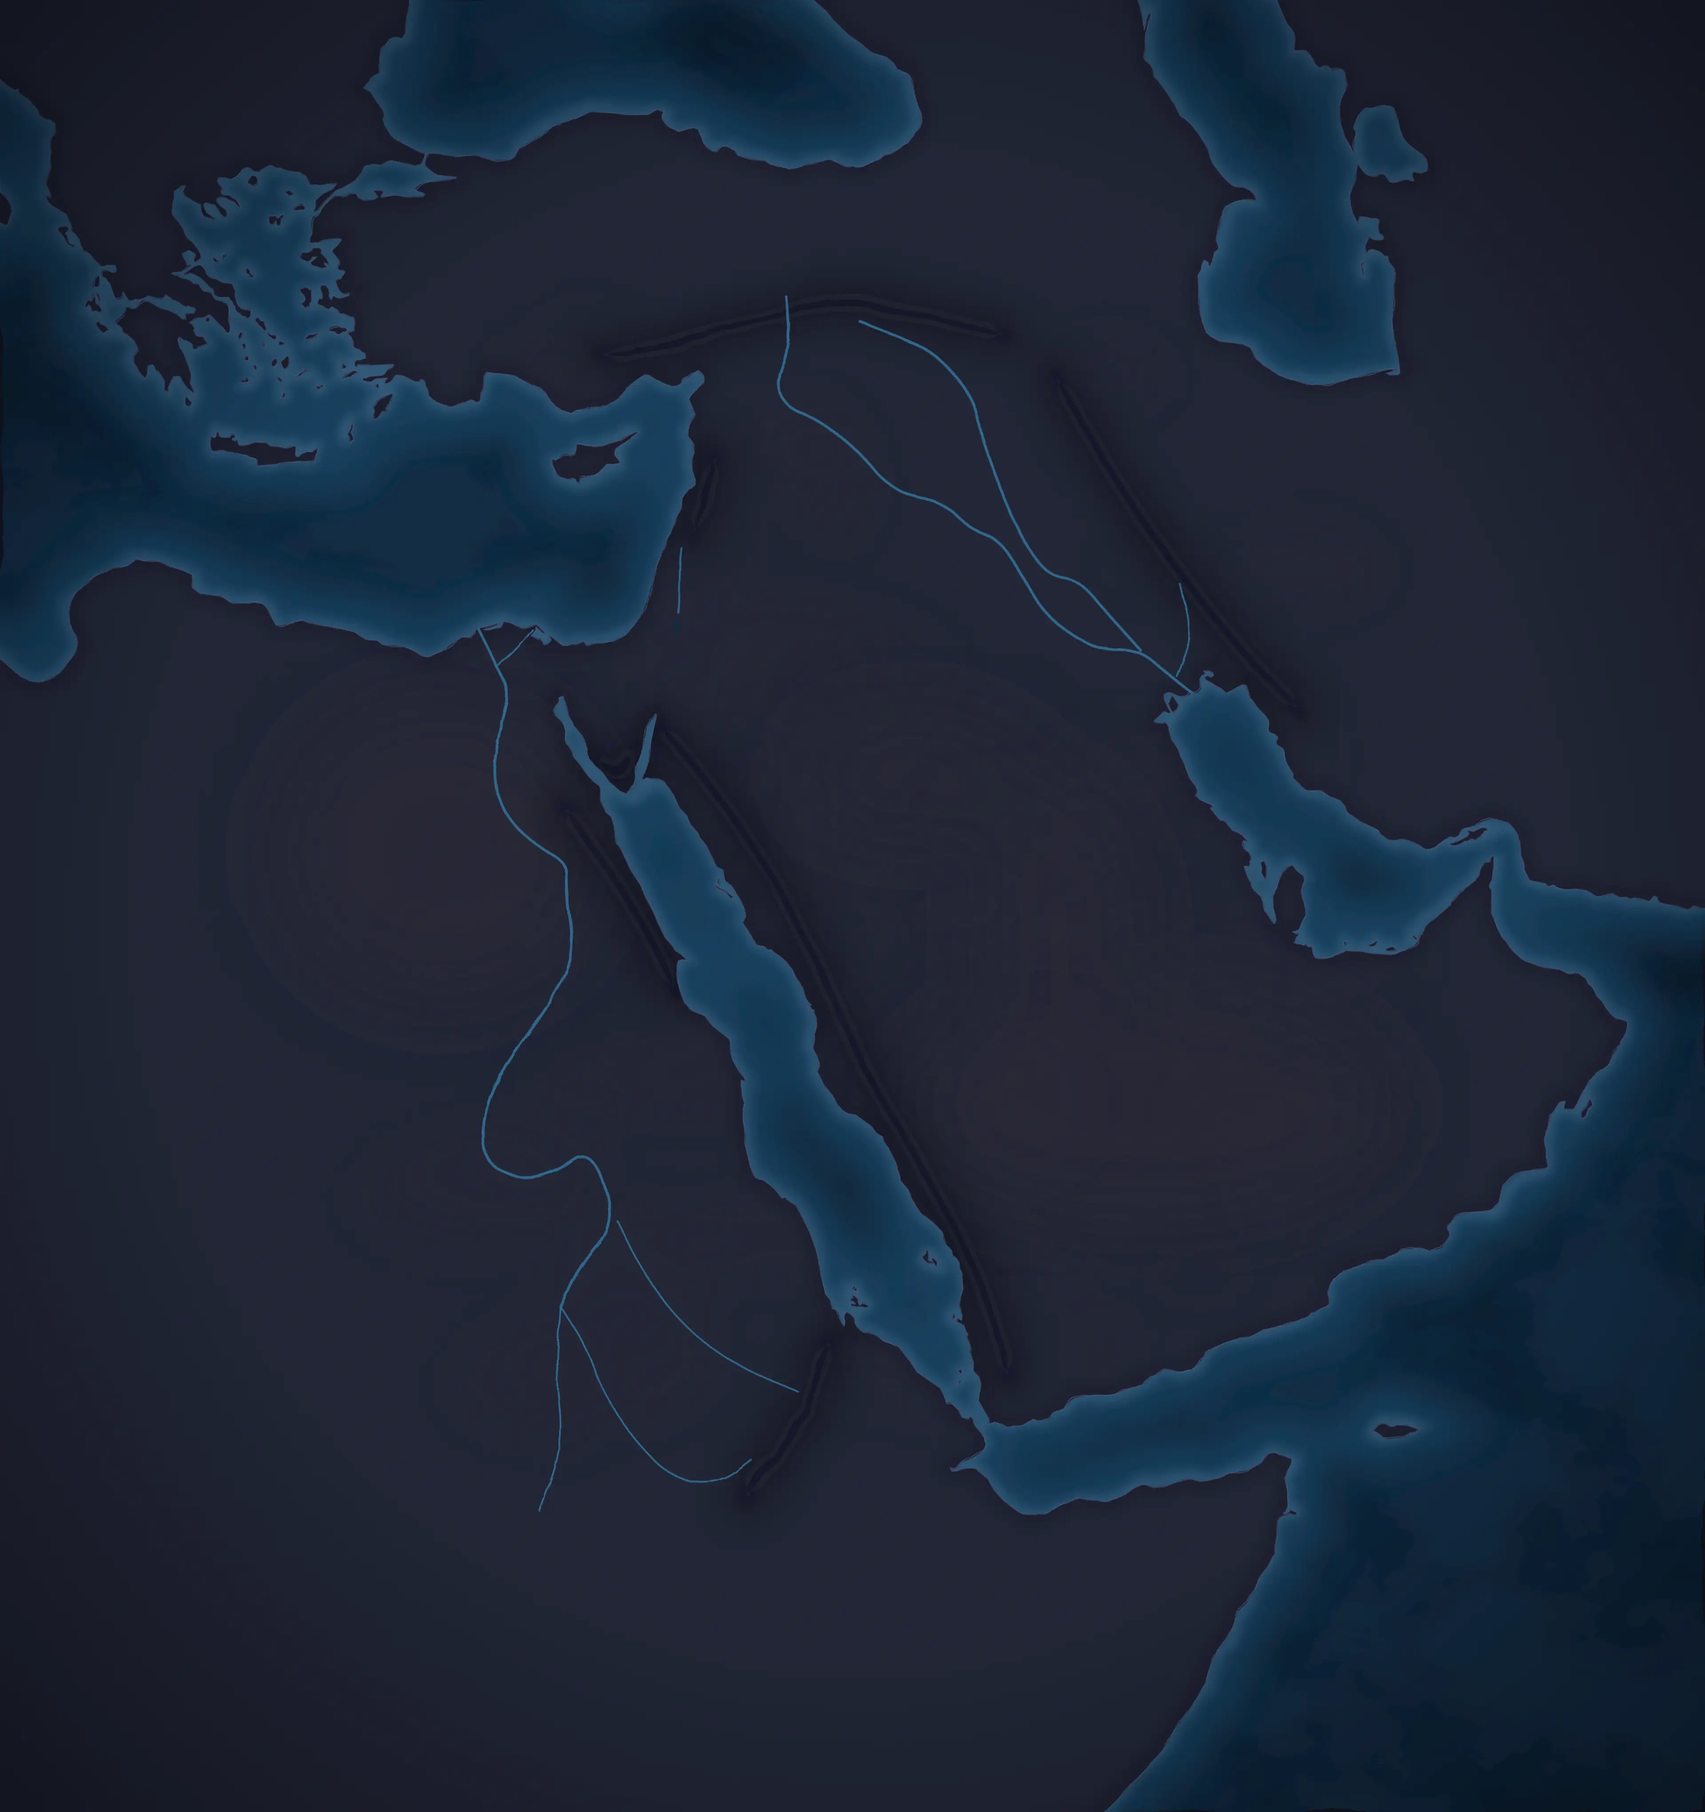
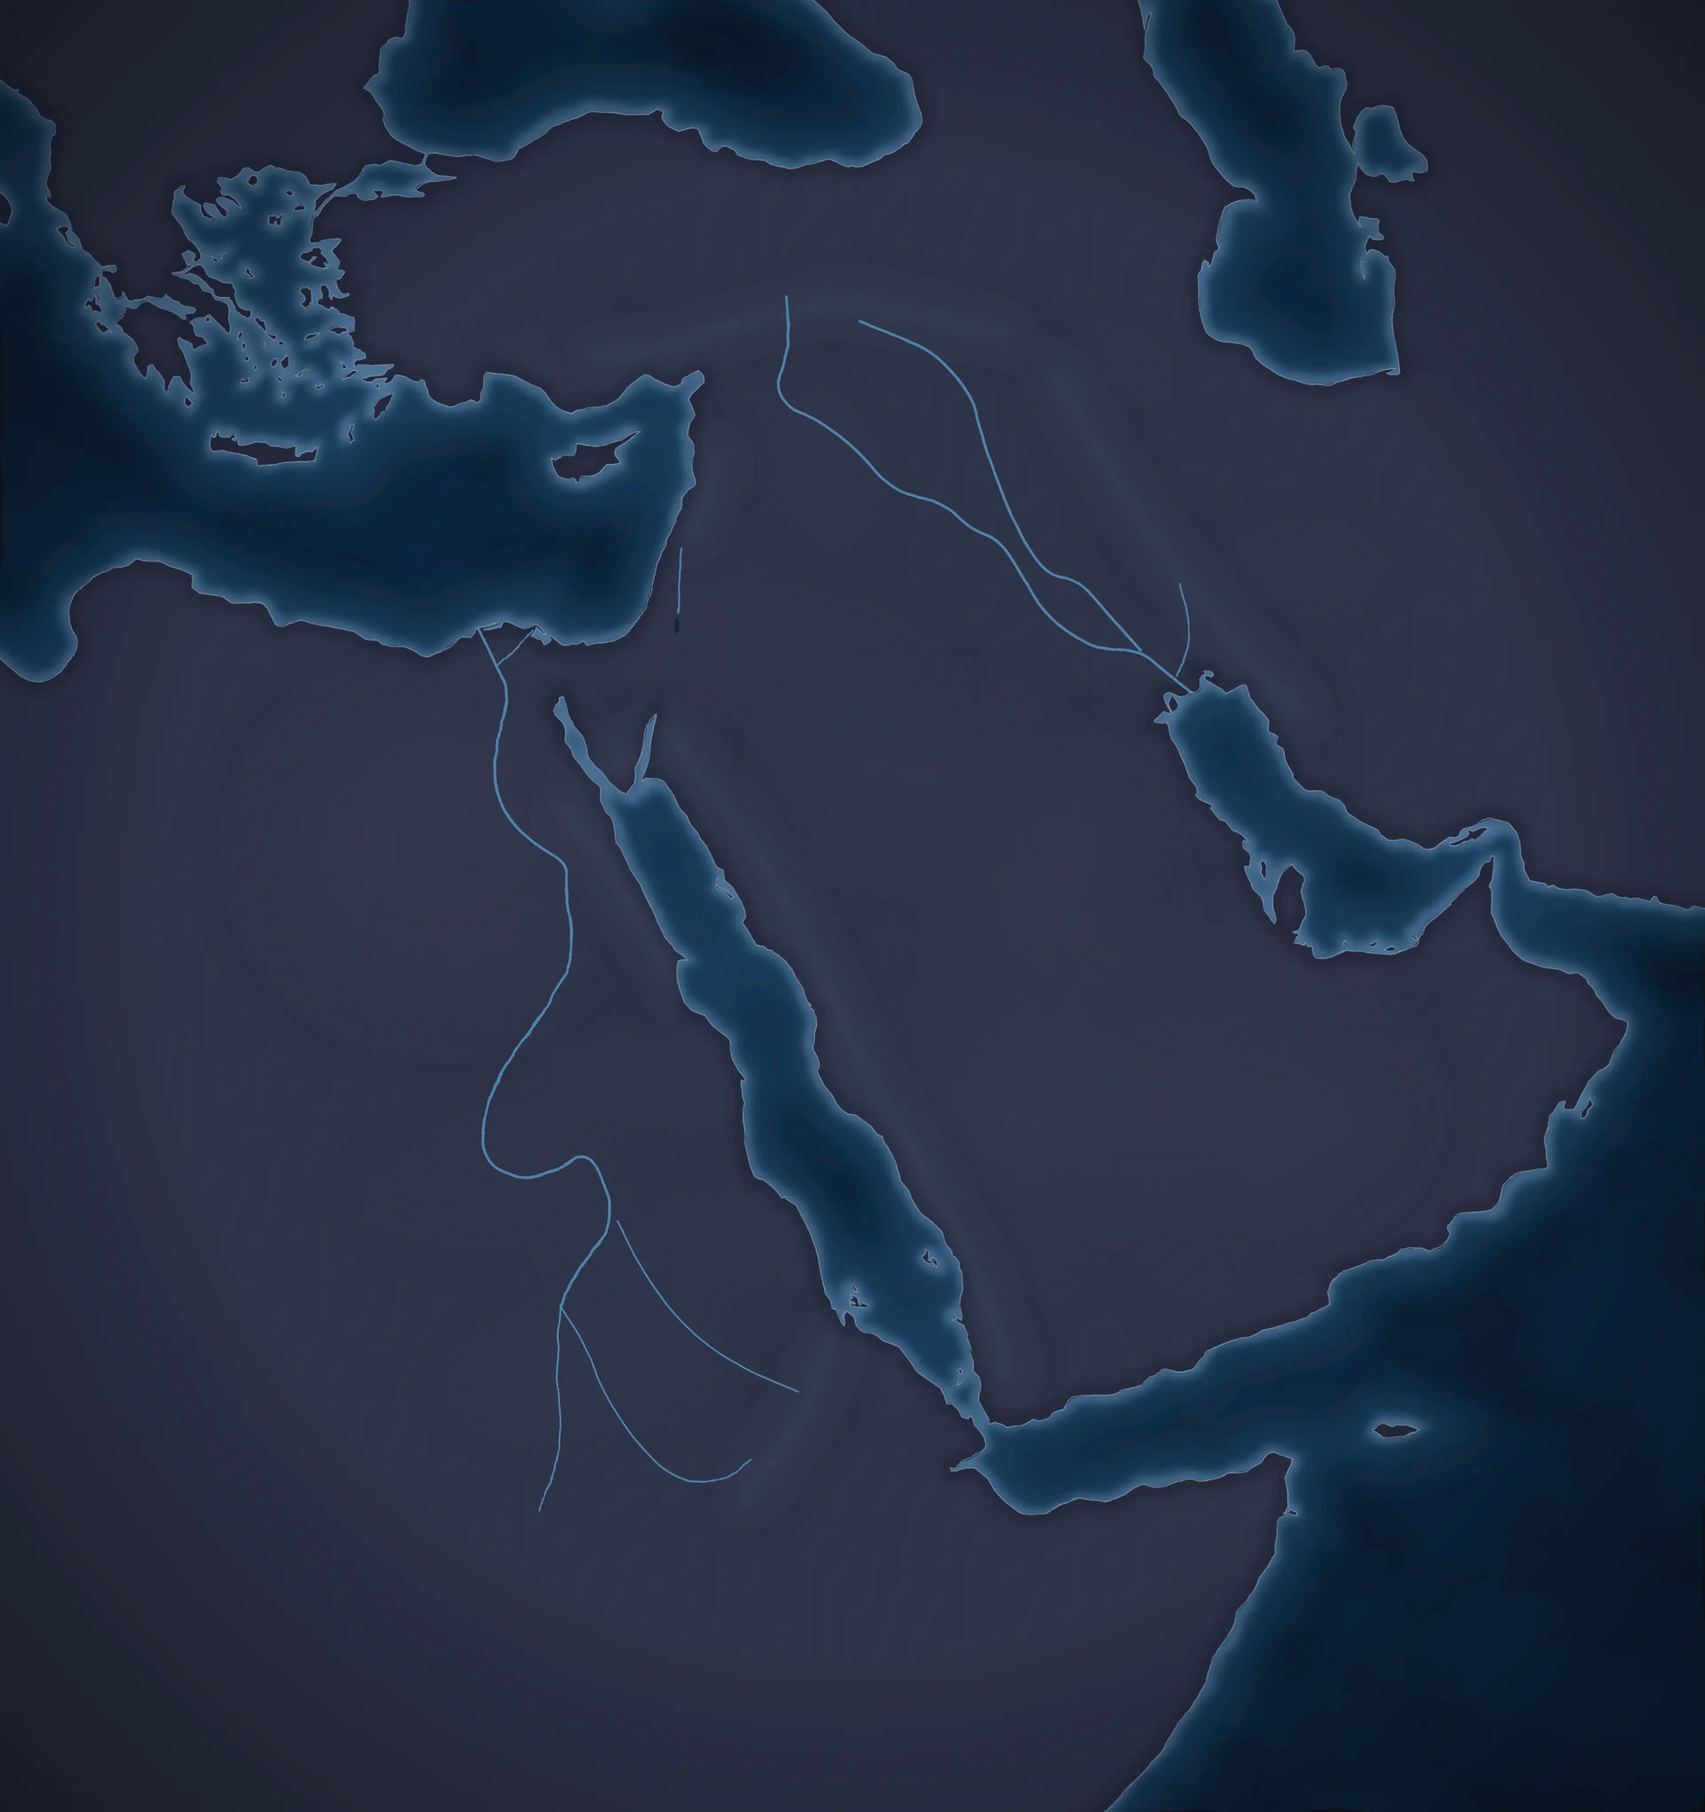
رحلة السيرة: إصلاح ألوان الخريطة الليلية
Claude-Session: https://claude.ai/code/session_017sij6fWkXrWpzPm7aXr9HP

diff --git a/abd-rahman/index.html b/abd-rahman/index.html
@@ -707,8 +707,8 @@ footer > span{display:flex;flex-direction:column;align-items:flex-start}
 @media (max-width:760px){.tk{width:12px}.tk i{width:7px;height:7px}.tl-track{--pad:6px}}
 /* خريطة مائية */
 :root{--sm-sea:#F1E6CB;--sm-land:#F1E6CB;--sm-lbl:#6B5232;--sm-reg:#8E714A;--sm-seaink:#2F6F8F;--sm-city:#3B2A16}
-@media (prefers-color-scheme:dark){:root:not([data-theme="light"]){--sm-sea:#151826;--sm-land:#1B1F2E;--sm-lbl:#A9A08A;--sm-reg:#727896;--sm-seaink:#6C9CC0;--sm-city:#EDE3CC}}
-:root[data-theme="dark"]{--sm-sea:#151826;--sm-land:#1B1F2E;--sm-lbl:#A9A08A;--sm-reg:#727896;--sm-seaink:#6C9CC0;--sm-city:#EDE3CC}
+@media (prefers-color-scheme:dark){:root:not([data-theme="light"]){--sm-sea:#151826;--sm-land:#343A50;--sm-lbl:#A9A08A;--sm-reg:#727896;--sm-seaink:#6C9CC0;--sm-city:#EDE3CC}}
+:root[data-theme="dark"]{--sm-sea:#151826;--sm-land:#343A50;--sm-lbl:#A9A08A;--sm-reg:#727896;--sm-seaink:#6C9CC0;--sm-city:#EDE3CC}
 #siraMap .art-d{display:none}
 @media (prefers-color-scheme:dark){:root:not([data-theme="light"]) #siraMap .art-l{display:none}:root:not([data-theme="light"]) #siraMap .art-d{display:inline}}
 :root[data-theme="dark"] #siraMap .art-l{display:none}:root[data-theme="dark"] #siraMap .art-d{display:inline}

diff --git a/about/index.html b/about/index.html
@@ -707,8 +707,8 @@ footer > span{display:flex;flex-direction:column;align-items:flex-start}
 @media (max-width:760px){.tk{width:12px}.tk i{width:7px;height:7px}.tl-track{--pad:6px}}
 /* خريطة مائية */
 :root{--sm-sea:#F1E6CB;--sm-land:#F1E6CB;--sm-lbl:#6B5232;--sm-reg:#8E714A;--sm-seaink:#2F6F8F;--sm-city:#3B2A16}
-@media (prefers-color-scheme:dark){:root:not([data-theme="light"]){--sm-sea:#151826;--sm-land:#1B1F2E;--sm-lbl:#A9A08A;--sm-reg:#727896;--sm-seaink:#6C9CC0;--sm-city:#EDE3CC}}
-:root[data-theme="dark"]{--sm-sea:#151826;--sm-land:#1B1F2E;--sm-lbl:#A9A08A;--sm-reg:#727896;--sm-seaink:#6C9CC0;--sm-city:#EDE3CC}
+@media (prefers-color-scheme:dark){:root:not([data-theme="light"]){--sm-sea:#151826;--sm-land:#343A50;--sm-lbl:#A9A08A;--sm-reg:#727896;--sm-seaink:#6C9CC0;--sm-city:#EDE3CC}}
+:root[data-theme="dark"]{--sm-sea:#151826;--sm-land:#343A50;--sm-lbl:#A9A08A;--sm-reg:#727896;--sm-seaink:#6C9CC0;--sm-city:#EDE3CC}
 #siraMap .art-d{display:none}
 @media (prefers-color-scheme:dark){:root:not([data-theme="light"]) #siraMap .art-l{display:none}:root:not([data-theme="light"]) #siraMap .art-d{display:inline}}
 :root[data-theme="dark"] #siraMap .art-l{display:none}:root[data-theme="dark"] #siraMap .art-d{display:inline}

diff --git a/abu-bakr/index.html b/abu-bakr/index.html
@@ -707,8 +707,8 @@ footer > span{display:flex;flex-direction:column;align-items:flex-start}
 @media (max-width:760px){.tk{width:12px}.tk i{width:7px;height:7px}.tl-track{--pad:6px}}
 /* خريطة مائية */
 :root{--sm-sea:#F1E6CB;--sm-land:#F1E6CB;--sm-lbl:#6B5232;--sm-reg:#8E714A;--sm-seaink:#2F6F8F;--sm-city:#3B2A16}
-@media (prefers-color-scheme:dark){:root:not([data-theme="light"]){--sm-sea:#151826;--sm-land:#1B1F2E;--sm-lbl:#A9A08A;--sm-reg:#727896;--sm-seaink:#6C9CC0;--sm-city:#EDE3CC}}
-:root[data-theme="dark"]{--sm-sea:#151826;--sm-land:#1B1F2E;--sm-lbl:#A9A08A;--sm-reg:#727896;--sm-seaink:#6C9CC0;--sm-city:#EDE3CC}
+@media (prefers-color-scheme:dark){:root:not([data-theme="light"]){--sm-sea:#151826;--sm-land:#343A50;--sm-lbl:#A9A08A;--sm-reg:#727896;--sm-seaink:#6C9CC0;--sm-city:#EDE3CC}}
+:root[data-theme="dark"]{--sm-sea:#151826;--sm-land:#343A50;--sm-lbl:#A9A08A;--sm-reg:#727896;--sm-seaink:#6C9CC0;--sm-city:#EDE3CC}
 #siraMap .art-d{display:none}
 @media (prefers-color-scheme:dark){:root:not([data-theme="light"]) #siraMap .art-l{display:none}:root:not([data-theme="light"]) #siraMap .art-d{display:inline}}
 :root[data-theme="dark"] #siraMap .art-l{display:none}:root[data-theme="dark"] #siraMap .art-d{display:inline}

diff --git a/abu-dujana/index.html b/abu-dujana/index.html
@@ -707,8 +707,8 @@ footer > span{display:flex;flex-direction:column;align-items:flex-start}
 @media (max-width:760px){.tk{width:12px}.tk i{width:7px;height:7px}.tl-track{--pad:6px}}
 /* خريطة مائية */
 :root{--sm-sea:#F1E6CB;--sm-land:#F1E6CB;--sm-lbl:#6B5232;--sm-reg:#8E714A;--sm-seaink:#2F6F8F;--sm-city:#3B2A16}
-@media (prefers-color-scheme:dark){:root:not([data-theme="light"]){--sm-sea:#151826;--sm-land:#1B1F2E;--sm-lbl:#A9A08A;--sm-reg:#727896;--sm-seaink:#6C9CC0;--sm-city:#EDE3CC}}
-:root[data-theme="dark"]{--sm-sea:#151826;--sm-land:#1B1F2E;--sm-lbl:#A9A08A;--sm-reg:#727896;--sm-seaink:#6C9CC0;--sm-city:#EDE3CC}
+@media (prefers-color-scheme:dark){:root:not([data-theme="light"]){--sm-sea:#151826;--sm-land:#343A50;--sm-lbl:#A9A08A;--sm-reg:#727896;--sm-seaink:#6C9CC0;--sm-city:#EDE3CC}}
+:root[data-theme="dark"]{--sm-sea:#151826;--sm-land:#343A50;--sm-lbl:#A9A08A;--sm-reg:#727896;--sm-seaink:#6C9CC0;--sm-city:#EDE3CC}
 #siraMap .art-d{display:none}
 @media (prefers-color-scheme:dark){:root:not([data-theme="light"]) #siraMap .art-l{display:none}:root:not([data-theme="light"]) #siraMap .art-d{display:inline}}
 :root[data-theme="dark"] #siraMap .art-l{display:none}:root[data-theme="dark"] #siraMap .art-d{display:inline}

diff --git a/abu-ubayda/index.html b/abu-ubayda/index.html
@@ -707,8 +707,8 @@ footer > span{display:flex;flex-direction:column;align-items:flex-start}
 @media (max-width:760px){.tk{width:12px}.tk i{width:7px;height:7px}.tl-track{--pad:6px}}
 /* خريطة مائية */
 :root{--sm-sea:#F1E6CB;--sm-land:#F1E6CB;--sm-lbl:#6B5232;--sm-reg:#8E714A;--sm-seaink:#2F6F8F;--sm-city:#3B2A16}
-@media (prefers-color-scheme:dark){:root:not([data-theme="light"]){--sm-sea:#151826;--sm-land:#1B1F2E;--sm-lbl:#A9A08A;--sm-reg:#727896;--sm-seaink:#6C9CC0;--sm-city:#EDE3CC}}
-:root[data-theme="dark"]{--sm-sea:#151826;--sm-land:#1B1F2E;--sm-lbl:#A9A08A;--sm-reg:#727896;--sm-seaink:#6C9CC0;--sm-city:#EDE3CC}
+@media (prefers-color-scheme:dark){:root:not([data-theme="light"]){--sm-sea:#151826;--sm-land:#343A50;--sm-lbl:#A9A08A;--sm-reg:#727896;--sm-seaink:#6C9CC0;--sm-city:#EDE3CC}}
+:root[data-theme="dark"]{--sm-sea:#151826;--sm-land:#343A50;--sm-lbl:#A9A08A;--sm-reg:#727896;--sm-seaink:#6C9CC0;--sm-city:#EDE3CC}
 #siraMap .art-d{display:none}
 @media (prefers-color-scheme:dark){:root:not([data-theme="light"]) #siraMap .art-l{display:none}:root:not([data-theme="light"]) #siraMap .art-d{display:inline}}
 :root[data-theme="dark"] #siraMap .art-l{display:none}:root[data-theme="dark"] #siraMap .art-d{display:inline}

diff --git a/ali/index.html b/ali/index.html
@@ -707,8 +707,8 @@ footer > span{display:flex;flex-direction:column;align-items:flex-start}
 @media (max-width:760px){.tk{width:12px}.tk i{width:7px;height:7px}.tl-track{--pad:6px}}
 /* خريطة مائية */
 :root{--sm-sea:#F1E6CB;--sm-land:#F1E6CB;--sm-lbl:#6B5232;--sm-reg:#8E714A;--sm-seaink:#2F6F8F;--sm-city:#3B2A16}
-@media (prefers-color-scheme:dark){:root:not([data-theme="light"]){--sm-sea:#151826;--sm-land:#1B1F2E;--sm-lbl:#A9A08A;--sm-reg:#727896;--sm-seaink:#6C9CC0;--sm-city:#EDE3CC}}
-:root[data-theme="dark"]{--sm-sea:#151826;--sm-land:#1B1F2E;--sm-lbl:#A9A08A;--sm-reg:#727896;--sm-seaink:#6C9CC0;--sm-city:#EDE3CC}
+@media (prefers-color-scheme:dark){:root:not([data-theme="light"]){--sm-sea:#151826;--sm-land:#343A50;--sm-lbl:#A9A08A;--sm-reg:#727896;--sm-seaink:#6C9CC0;--sm-city:#EDE3CC}}
+:root[data-theme="dark"]{--sm-sea:#151826;--sm-land:#343A50;--sm-lbl:#A9A08A;--sm-reg:#727896;--sm-seaink:#6C9CC0;--sm-city:#EDE3CC}
 #siraMap .art-d{display:none}
 @media (prefers-color-scheme:dark){:root:not([data-theme="light"]) #siraMap .art-l{display:none}:root:not([data-theme="light"]) #siraMap .art-d{display:inline}}
 :root[data-theme="dark"] #siraMap .art-l{display:none}:root[data-theme="dark"] #siraMap .art-d{display:inline}

diff --git a/amr-jamuh/index.html b/amr-jamuh/index.html
@@ -707,8 +707,8 @@ footer > span{display:flex;flex-direction:column;align-items:flex-start}
 @media (max-width:760px){.tk{width:12px}.tk i{width:7px;height:7px}.tl-track{--pad:6px}}
 /* خريطة مائية */
 :root{--sm-sea:#F1E6CB;--sm-land:#F1E6CB;--sm-lbl:#6B5232;--sm-reg:#8E714A;--sm-seaink:#2F6F8F;--sm-city:#3B2A16}
-@media (prefers-color-scheme:dark){:root:not([data-theme="light"]){--sm-sea:#151826;--sm-land:#1B1F2E;--sm-lbl:#A9A08A;--sm-reg:#727896;--sm-seaink:#6C9CC0;--sm-city:#EDE3CC}}
-:root[data-theme="dark"]{--sm-sea:#151826;--sm-land:#1B1F2E;--sm-lbl:#A9A08A;--sm-reg:#727896;--sm-seaink:#6C9CC0;--sm-city:#EDE3CC}
+@media (prefers-color-scheme:dark){:root:not([data-theme="light"]){--sm-sea:#151826;--sm-land:#343A50;--sm-lbl:#A9A08A;--sm-reg:#727896;--sm-seaink:#6C9CC0;--sm-city:#EDE3CC}}
+:root[data-theme="dark"]{--sm-sea:#151826;--sm-land:#343A50;--sm-lbl:#A9A08A;--sm-reg:#727896;--sm-seaink:#6C9CC0;--sm-city:#EDE3CC}
 #siraMap .art-d{display:none}
 @media (prefers-color-scheme:dark){:root:not([data-theme="light"]) #siraMap .art-l{display:none}:root:not([data-theme="light"]) #siraMap .art-d{display:inline}}
 :root[data-theme="dark"] #siraMap .art-l{display:none}:root[data-theme="dark"] #siraMap .art-d{display:inline}

diff --git a/anas-nadr/index.html b/anas-nadr/index.html
@@ -707,8 +707,8 @@ footer > span{display:flex;flex-direction:column;align-items:flex-start}
 @media (max-width:760px){.tk{width:12px}.tk i{width:7px;height:7px}.tl-track{--pad:6px}}
 /* خريطة مائية */
 :root{--sm-sea:#F1E6CB;--sm-land:#F1E6CB;--sm-lbl:#6B5232;--sm-reg:#8E714A;--sm-seaink:#2F6F8F;--sm-city:#3B2A16}
-@media (prefers-color-scheme:dark){:root:not([data-theme="light"]){--sm-sea:#151826;--sm-land:#1B1F2E;--sm-lbl:#A9A08A;--sm-reg:#727896;--sm-seaink:#6C9CC0;--sm-city:#EDE3CC}}
-:root[data-theme="dark"]{--sm-sea:#151826;--sm-land:#1B1F2E;--sm-lbl:#A9A08A;--sm-reg:#727896;--sm-seaink:#6C9CC0;--sm-city:#EDE3CC}
+@media (prefers-color-scheme:dark){:root:not([data-theme="light"]){--sm-sea:#151826;--sm-land:#343A50;--sm-lbl:#A9A08A;--sm-reg:#727896;--sm-seaink:#6C9CC0;--sm-city:#EDE3CC}}
+:root[data-theme="dark"]{--sm-sea:#151826;--sm-land:#343A50;--sm-lbl:#A9A08A;--sm-reg:#727896;--sm-seaink:#6C9CC0;--sm-city:#EDE3CC}
 #siraMap .art-d{display:none}
 @media (prefers-color-scheme:dark){:root:not([data-theme="light"]) #siraMap .art-l{display:none}:root:not([data-theme="light"]) #siraMap .art-d{display:inline}}
 :root[data-theme="dark"] #siraMap .art-l{display:none}:root[data-theme="dark"] #siraMap .art-d{display:inline}

diff --git a/hudhayfa/index.html b/hudhayfa/index.html
@@ -707,8 +707,8 @@ footer > span{display:flex;flex-direction:column;align-items:flex-start}
 @media (max-width:760px){.tk{width:12px}.tk i{width:7px;height:7px}.tl-track{--pad:6px}}
 /* خريطة مائية */
 :root{--sm-sea:#F1E6CB;--sm-land:#F1E6CB;--sm-lbl:#6B5232;--sm-reg:#8E714A;--sm-seaink:#2F6F8F;--sm-city:#3B2A16}
-@media (prefers-color-scheme:dark){:root:not([data-theme="light"]){--sm-sea:#151826;--sm-land:#1B1F2E;--sm-lbl:#A9A08A;--sm-reg:#727896;--sm-seaink:#6C9CC0;--sm-city:#EDE3CC}}
-:root[data-theme="dark"]{--sm-sea:#151826;--sm-land:#1B1F2E;--sm-lbl:#A9A08A;--sm-reg:#727896;--sm-seaink:#6C9CC0;--sm-city:#EDE3CC}
+@media (prefers-color-scheme:dark){:root:not([data-theme="light"]){--sm-sea:#151826;--sm-land:#343A50;--sm-lbl:#A9A08A;--sm-reg:#727896;--sm-seaink:#6C9CC0;--sm-city:#EDE3CC}}
+:root[data-theme="dark"]{--sm-sea:#151826;--sm-land:#343A50;--sm-lbl:#A9A08A;--sm-reg:#727896;--sm-seaink:#6C9CC0;--sm-city:#EDE3CC}
 #siraMap .art-d{display:none}
 @media (prefers-color-scheme:dark){:root:not([data-theme="light"]) #siraMap .art-l{display:none}:root:not([data-theme="light"]) #siraMap .art-d{display:inline}}
 :root[data-theme="dark"] #siraMap .art-l{display:none}:root[data-theme="dark"] #siraMap .art-d{display:inline}

diff --git a/ibn-masud/index.html b/ibn-masud/index.html
@@ -707,8 +707,8 @@ footer > span{display:flex;flex-direction:column;align-items:flex-start}
 @media (max-width:760px){.tk{width:12px}.tk i{width:7px;height:7px}.tl-track{--pad:6px}}
 /* خريطة مائية */
 :root{--sm-sea:#F1E6CB;--sm-land:#F1E6CB;--sm-lbl:#6B5232;--sm-reg:#8E714A;--sm-seaink:#2F6F8F;--sm-city:#3B2A16}
-@media (prefers-color-scheme:dark){:root:not([data-theme="light"]){--sm-sea:#151826;--sm-land:#1B1F2E;--sm-lbl:#A9A08A;--sm-reg:#727896;--sm-seaink:#6C9CC0;--sm-city:#EDE3CC}}
-:root[data-theme="dark"]{--sm-sea:#151826;--sm-land:#1B1F2E;--sm-lbl:#A9A08A;--sm-reg:#727896;--sm-seaink:#6C9CC0;--sm-city:#EDE3CC}
+@media (prefers-color-scheme:dark){:root:not([data-theme="light"]){--sm-sea:#151826;--sm-land:#343A50;--sm-lbl:#A9A08A;--sm-reg:#727896;--sm-seaink:#6C9CC0;--sm-city:#EDE3CC}}
+:root[data-theme="dark"]{--sm-sea:#151826;--sm-land:#343A50;--sm-lbl:#A9A08A;--sm-reg:#727896;--sm-seaink:#6C9CC0;--sm-city:#EDE3CC}
 #siraMap .art-d{display:none}
 @media (prefers-color-scheme:dark){:root:not([data-theme="light"]) #siraMap .art-l{display:none}:root:not([data-theme="light"]) #siraMap .art-d{display:inline}}
 :root[data-theme="dark"] #siraMap .art-l{display:none}:root[data-theme="dark"] #siraMap .art-d{display:inline}

diff --git a/index.html b/index.html
@@ -708,8 +708,8 @@ footer > span{display:flex;flex-direction:column;align-items:flex-start}
 @media (max-width:760px){.tk{width:12px}.tk i{width:7px;height:7px}.tl-track{--pad:6px}}
 /* خريطة مائية */
 :root{--sm-sea:#F1E6CB;--sm-land:#F1E6CB;--sm-lbl:#6B5232;--sm-reg:#8E714A;--sm-seaink:#2F6F8F;--sm-city:#3B2A16}
-@media (prefers-color-scheme:dark){:root:not([data-theme="light"]){--sm-sea:#151826;--sm-land:#1B1F2E;--sm-lbl:#A9A08A;--sm-reg:#727896;--sm-seaink:#6C9CC0;--sm-city:#EDE3CC}}
-:root[data-theme="dark"]{--sm-sea:#151826;--sm-land:#1B1F2E;--sm-lbl:#A9A08A;--sm-reg:#727896;--sm-seaink:#6C9CC0;--sm-city:#EDE3CC}
+@media (prefers-color-scheme:dark){:root:not([data-theme="light"]){--sm-sea:#151826;--sm-land:#343A50;--sm-lbl:#A9A08A;--sm-reg:#727896;--sm-seaink:#6C9CC0;--sm-city:#EDE3CC}}
+:root[data-theme="dark"]{--sm-sea:#151826;--sm-land:#343A50;--sm-lbl:#A9A08A;--sm-reg:#727896;--sm-seaink:#6C9CC0;--sm-city:#EDE3CC}
 #siraMap .art-d{display:none}
 @media (prefers-color-scheme:dark){:root:not([data-theme="light"]) #siraMap .art-l{display:none}:root:not([data-theme="light"]) #siraMap .art-d{display:inline}}
 :root[data-theme="dark"] #siraMap .art-l{display:none}:root[data-theme="dark"] #siraMap .art-d{display:inline}

diff --git a/map/index.html b/map/index.html
@@ -707,8 +707,8 @@ footer > span{display:flex;flex-direction:column;align-items:flex-start}
 @media (max-width:760px){.tk{width:12px}.tk i{width:7px;height:7px}.tl-track{--pad:6px}}
 /* خريطة مائية */
 :root{--sm-sea:#F1E6CB;--sm-land:#F1E6CB;--sm-lbl:#6B5232;--sm-reg:#8E714A;--sm-seaink:#2F6F8F;--sm-city:#3B2A16}
-@media (prefers-color-scheme:dark){:root:not([data-theme="light"]){--sm-sea:#151826;--sm-land:#1B1F2E;--sm-lbl:#A9A08A;--sm-reg:#727896;--sm-seaink:#6C9CC0;--sm-city:#EDE3CC}}
-:root[data-theme="dark"]{--sm-sea:#151826;--sm-land:#1B1F2E;--sm-lbl:#A9A08A;--sm-reg:#727896;--sm-seaink:#6C9CC0;--sm-city:#EDE3CC}
+@media (prefers-color-scheme:dark){:root:not([data-theme="light"]){--sm-sea:#151826;--sm-land:#343A50;--sm-lbl:#A9A08A;--sm-reg:#727896;--sm-seaink:#6C9CC0;--sm-city:#EDE3CC}}
+:root[data-theme="dark"]{--sm-sea:#151826;--sm-land:#343A50;--sm-lbl:#A9A08A;--sm-reg:#727896;--sm-seaink:#6C9CC0;--sm-city:#EDE3CC}
 #siraMap .art-d{display:none}
 @media (prefers-color-scheme:dark){:root:not([data-theme="light"]) #siraMap .art-l{display:none}:root:not([data-theme="light"]) #siraMap .art-d{display:inline}}
 :root[data-theme="dark"] #siraMap .art-l{display:none}:root[data-theme="dark"] #siraMap .art-d{display:inline}
